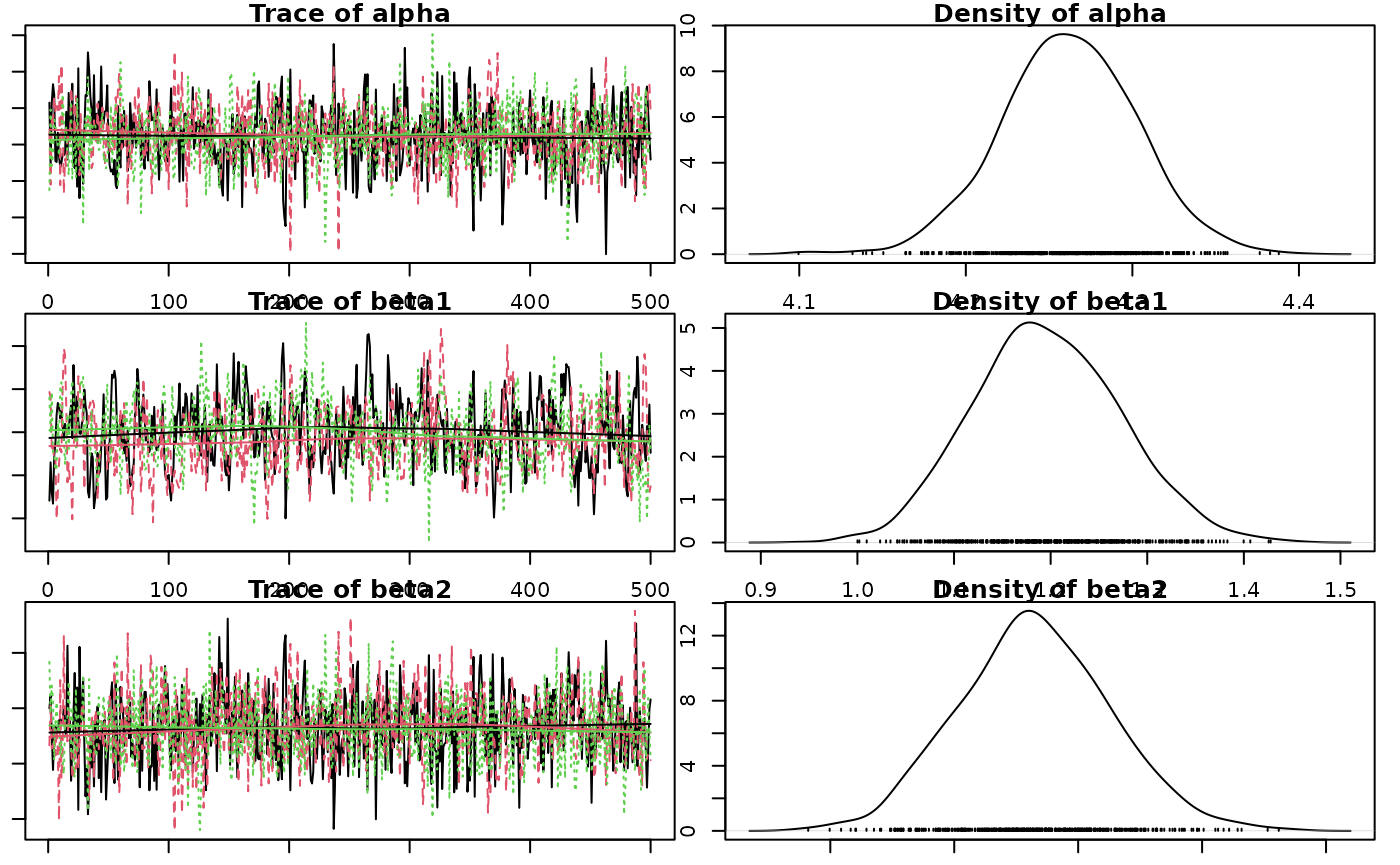
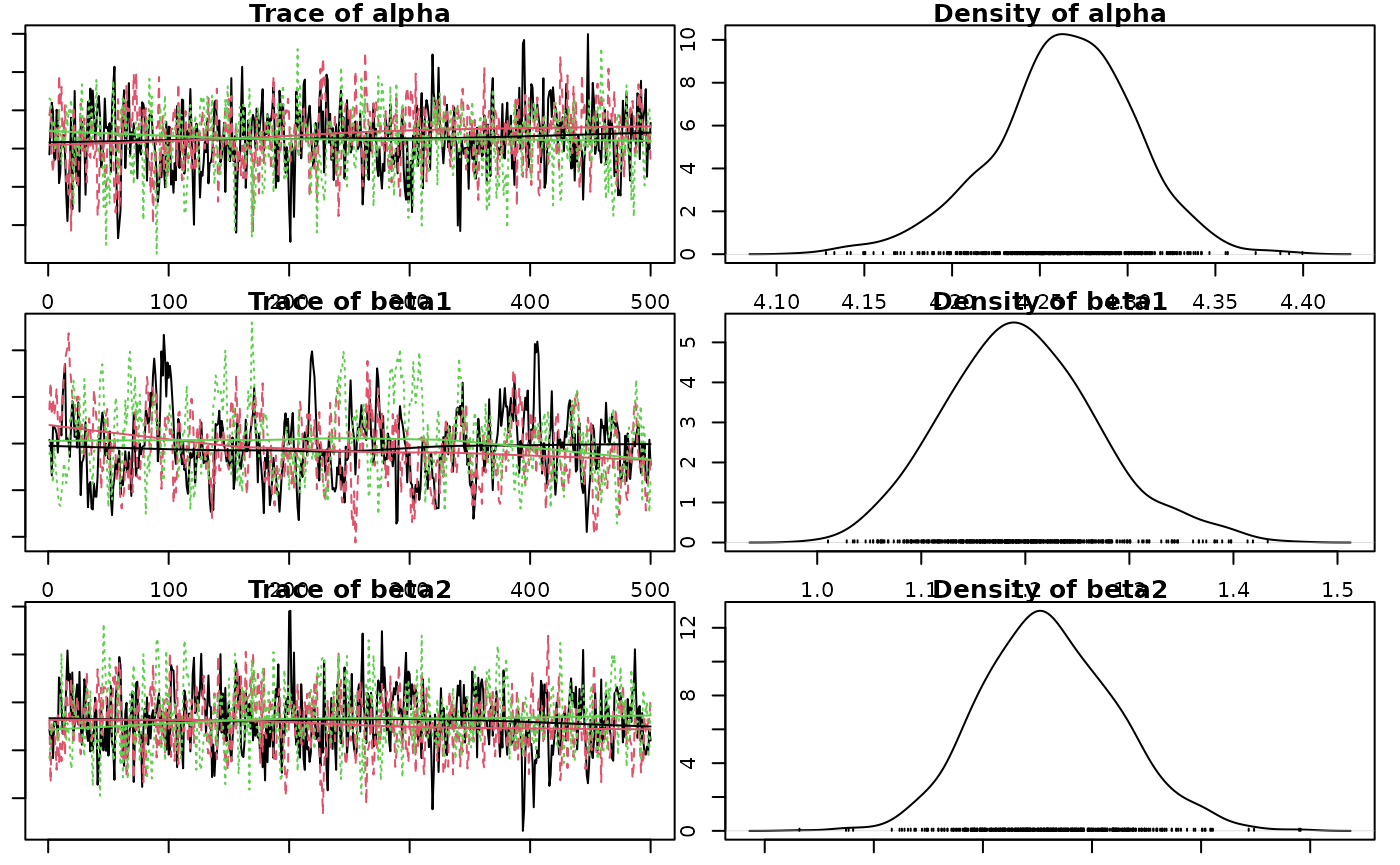
Deploying to gh-pages from @ poissonconsulting/jmbr@5c5ba8e0ce94d65971599e97e713981347515057 🚀

diff --git a/articles/jmbr.html b/articles/jmbr.html
@@ -24,7 +24,7 @@
 
     <a class="navbar-brand me-2" href="../index.html">jmbr</a>
 
-    <small class="nav-text text-muted me-auto" data-bs-toggle="tooltip" data-bs-placement="bottom" title="">0.0.0.9159</small>
+    <small class="nav-text text-muted me-auto" data-bs-toggle="tooltip" data-bs-placement="bottom" title="">0.0.0.9160</small>
 
 
     <button class="navbar-toggler" type="button" data-bs-toggle="collapse" data-bs-target="#navbar" aria-controls="navbar" aria-expanded="false" aria-label="Toggle navigation">
@@ -278,14 +278,14 @@ value and discarding all other values.</p>
 <span><span class="co">#&gt; <span style="color: #949494;"># A tibble: 1 × 8</span></span></span>
 <span><span class="co">#&gt;       n     K nchains niters nthin   ess  rhat converged</span></span>
 <span><span class="co">#&gt;   <span style="color: #949494; font-style: italic;">&lt;int&gt;</span> <span style="color: #949494; font-style: italic;">&lt;int&gt;</span>   <span style="color: #949494; font-style: italic;">&lt;int&gt;</span>  <span style="color: #949494; font-style: italic;">&lt;int&gt;</span> <span style="color: #949494; font-style: italic;">&lt;int&gt;</span> <span style="color: #949494; font-style: italic;">&lt;int&gt;</span> <span style="color: #949494; font-style: italic;">&lt;dbl&gt;</span> <span style="color: #949494; font-style: italic;">&lt;lgl&gt;</span>    </span></span>
-<span><span class="co">#&gt; <span style="color: #BCBCBC;">1</span>    40     6       3    500    10   165  1.38 FALSE</span></span>
+<span><span class="co">#&gt; <span style="color: #BCBCBC;">1</span>    40     6       3    500    10   226  1.01 TRUE</span></span>
 <span><span class="co">#&gt; Warning in value[[3L]](cond): beep() could not play the sound due to the following error:</span></span>
 <span><span class="co">#&gt; Error in play.default(x, rate, ...): no audio drivers are available</span></span>
 <span><span class="va">analysis</span> <span class="op">&lt;-</span> <span class="fu"><a href="https://rdrr.io/pkg/embr/man/reanalyse.html" class="external-link">reanalyse</a></span><span class="op">(</span><span class="va">analysis</span><span class="op">)</span></span>
 <span><span class="co">#&gt; <span style="color: #949494;"># A tibble: 1 × 8</span></span></span>
 <span><span class="co">#&gt;       n     K nchains niters nthin   ess  rhat converged</span></span>
 <span><span class="co">#&gt;   <span style="color: #949494; font-style: italic;">&lt;int&gt;</span> <span style="color: #949494; font-style: italic;">&lt;int&gt;</span>   <span style="color: #949494; font-style: italic;">&lt;int&gt;</span>  <span style="color: #949494; font-style: italic;">&lt;int&gt;</span> <span style="color: #949494; font-style: italic;">&lt;int&gt;</span> <span style="color: #949494; font-style: italic;">&lt;int&gt;</span> <span style="color: #949494; font-style: italic;">&lt;dbl&gt;</span> <span style="color: #949494; font-style: italic;">&lt;lgl&gt;</span>    </span></span>
-<span><span class="co">#&gt; <span style="color: #BCBCBC;">1</span>    40     6       3    500    20   459  1.02 TRUE</span></span>
+<span><span class="co">#&gt; <span style="color: #BCBCBC;">1</span>    40     6       3    500    10   226  1.01 TRUE</span></span>
 <span><span class="co">#&gt; Warning in value[[3L]](cond): beep() could not play the sound due to the following error:</span></span>
 <span><span class="co">#&gt; Error in play.default(x, rate, ...): no audio drivers are available</span></span></code></pre></div>
 <p><strong>Analysis Table:</strong></p>
@@ -329,12 +329,12 @@ between- and within-chain estimates for model parameters.
 <span><span class="co">#&gt; <span style="color: #949494;"># A tibble: 6 × 5</span></span></span>
 <span><span class="co">#&gt;   term        estimate   lower   upper svalue</span></span>
 <span><span class="co">#&gt;   <span style="color: #949494; font-style: italic;">&lt;term&gt;</span>         <span style="color: #949494; font-style: italic;">&lt;dbl&gt;</span>   <span style="color: #949494; font-style: italic;">&lt;dbl&gt;</span>   <span style="color: #949494; font-style: italic;">&lt;dbl&gt;</span>  <span style="color: #949494; font-style: italic;">&lt;dbl&gt;</span></span></span>
-<span><span class="co">#&gt; <span style="color: #BCBCBC;">1</span> alpha         4.26    4.18    4.34   10.6  </span></span>
-<span><span class="co">#&gt; <span style="color: #BCBCBC;">2</span> beta1         1.19    1.06    1.35   10.6  </span></span>
-<span><span class="co">#&gt; <span style="color: #BCBCBC;">3</span> beta2        -<span style="color: #BB0000;">0.018</span><span style="color: #BB0000; text-decoration: underline;">2</span> -<span style="color: #BB0000;">0.074</span><span style="color: #BB0000; text-decoration: underline;">1</span>  0.042<span style="text-decoration: underline;">5</span>  0.868</span></span>
-<span><span class="co">#&gt; <span style="color: #BCBCBC;">4</span> beta3        -<span style="color: #BB0000;">0.272</span>  -<span style="color: #BB0000;">0.350</span>  -<span style="color: #BB0000;">0.203</span>  10.6  </span></span>
-<span><span class="co">#&gt; <span style="color: #BCBCBC;">5</span> log_sAnnual  -<span style="color: #BB0000;">2.24</span>   -<span style="color: #BB0000;">2.90</span>   -<span style="color: #BB0000;">1.76</span>   10.6  </span></span>
-<span><span class="co">#&gt; <span style="color: #BCBCBC;">6</span> sAnnual       0.107   0.055<span style="text-decoration: underline;">2</span>  0.173  10.6</span></span></code></pre></div>
+<span><span class="co">#&gt; <span style="color: #BCBCBC;">1</span> alpha         4.27    4.17    4.34   10.6  </span></span>
+<span><span class="co">#&gt; <span style="color: #BCBCBC;">2</span> beta1         1.19    1.06    1.36   10.6  </span></span>
+<span><span class="co">#&gt; <span style="color: #BCBCBC;">3</span> beta2        -<span style="color: #BB0000;">0.021</span><span style="color: #BB0000; text-decoration: underline;">0</span> -<span style="color: #BB0000;">0.077</span><span style="color: #BB0000; text-decoration: underline;">8</span>  0.047<span style="text-decoration: underline;">2</span>  0.947</span></span>
+<span><span class="co">#&gt; <span style="color: #BCBCBC;">4</span> beta3        -<span style="color: #BB0000;">0.272</span>  -<span style="color: #BB0000;">0.357</span>  -<span style="color: #BB0000;">0.204</span>  10.6  </span></span>
+<span><span class="co">#&gt; <span style="color: #BCBCBC;">5</span> log_sAnnual  -<span style="color: #BB0000;">2.20</span>   -<span style="color: #BB0000;">3.02</span>   -<span style="color: #BB0000;">1.72</span>   10.6  </span></span>
+<span><span class="co">#&gt; <span style="color: #BCBCBC;">6</span> sAnnual       0.111   0.048<span style="text-decoration: underline;">9</span>  0.179  10.6</span></span></code></pre></div>
 <p>The estimate is the <strong>median</strong> by default.</p>
 <p>The s-value is the <strong>suprisal</strong> value, which is a
 measure of directionality with respect to zero.</p>

diff --git a/news/index.html b/news/index.html
@@ -7,7 +7,7 @@
 
     <a class="navbar-brand me-2" href="../index.html">jmbr</a>
 
-    <small class="nav-text text-muted me-auto" data-bs-toggle="tooltip" data-bs-placement="bottom" title="">0.0.0.9159</small>
+    <small class="nav-text text-muted me-auto" data-bs-toggle="tooltip" data-bs-placement="bottom" title="">0.0.0.9160</small>
 
 
     <button class="navbar-toggler" type="button" data-bs-toggle="collapse" data-bs-target="#navbar" aria-controls="navbar" aria-expanded="false" aria-label="Toggle navigation">
@@ -33,6 +33,10 @@
       <small>Source: <a href="https://github.com/poissonconsulting/jmbr/blob/main/NEWS.md" class="external-link"><code>NEWS.md</code></a></small>
     </div>
 
+    <div class="section level2">
+<h2 class="pkg-version" data-toc-text="0.0.0.9160" id="jmbr-0009160-2026-10-08">jmbr 0.0.0.9160 (2026-10-08)<a class="anchor" aria-label="anchor" href="#jmbr-0009160-2026-10-08"></a></h2>
+<ul><li>Same as previous version.</li>
+</ul></div>
     <div class="section level2">
 <h2 class="pkg-version" data-toc-text="0.0.0.9159" id="jmbr-0009159-2026-09-01">jmbr 0.0.0.9159 (2026-09-01)<a class="anchor" aria-label="anchor" href="#jmbr-0009159-2026-09-01"></a></h2>
 <ul><li>Same as previous version.</li>

diff --git a/404.html b/404.html
@@ -24,7 +24,7 @@
 
     <a class="navbar-brand me-2" href="https://poissonconsulting.github.io/jmbr/index.html">jmbr</a>
 
-    <small class="nav-text text-muted me-auto" data-bs-toggle="tooltip" data-bs-placement="bottom" title="">0.0.0.9159</small>
+    <small class="nav-text text-muted me-auto" data-bs-toggle="tooltip" data-bs-placement="bottom" title="">0.0.0.9160</small>
 
 
     <button class="navbar-toggler" type="button" data-bs-toggle="collapse" data-bs-target="#navbar" aria-controls="navbar" aria-expanded="false" aria-label="Toggle navigation">

diff --git a/articles/index.html b/articles/index.html
@@ -7,7 +7,7 @@
 
     <a class="navbar-brand me-2" href="../index.html">jmbr</a>
 
-    <small class="nav-text text-muted me-auto" data-bs-toggle="tooltip" data-bs-placement="bottom" title="">0.0.0.9159</small>
+    <small class="nav-text text-muted me-auto" data-bs-toggle="tooltip" data-bs-placement="bottom" title="">0.0.0.9160</small>
 
 
     <button class="navbar-toggler" type="button" data-bs-toggle="collapse" data-bs-target="#navbar" aria-controls="navbar" aria-expanded="false" aria-label="Toggle navigation">

diff --git a/reference/index.html b/reference/index.html
@@ -7,7 +7,7 @@
 
     <a class="navbar-brand me-2" href="../index.html">jmbr</a>
 
-    <small class="nav-text text-muted me-auto" data-bs-toggle="tooltip" data-bs-placement="bottom" title="">0.0.0.9159</small>
+    <small class="nav-text text-muted me-auto" data-bs-toggle="tooltip" data-bs-placement="bottom" title="">0.0.0.9160</small>
 
 
     <button class="navbar-toggler" type="button" data-bs-toggle="collapse" data-bs-target="#navbar" aria-controls="navbar" aria-expanded="false" aria-label="Toggle navigation">

diff --git a/reference/is.jmb_analysis.html b/reference/is.jmb_analysis.html
@@ -7,7 +7,7 @@
 
     <a class="navbar-brand me-2" href="../index.html">jmbr</a>
 
-    <small class="nav-text text-muted me-auto" data-bs-toggle="tooltip" data-bs-placement="bottom" title="">0.0.0.9159</small>
+    <small class="nav-text text-muted me-auto" data-bs-toggle="tooltip" data-bs-placement="bottom" title="">0.0.0.9160</small>
 
 
     <button class="navbar-toggler" type="button" data-bs-toggle="collapse" data-bs-target="#navbar" aria-controls="navbar" aria-expanded="false" aria-label="Toggle navigation">

diff --git a/reference/is.jmb_code.html b/reference/is.jmb_code.html
@@ -7,7 +7,7 @@
 
     <a class="navbar-brand me-2" href="../index.html">jmbr</a>
 
-    <small class="nav-text text-muted me-auto" data-bs-toggle="tooltip" data-bs-placement="bottom" title="">0.0.0.9159</small>
+    <small class="nav-text text-muted me-auto" data-bs-toggle="tooltip" data-bs-placement="bottom" title="">0.0.0.9160</small>
 
 
     <button class="navbar-toggler" type="button" data-bs-toggle="collapse" data-bs-target="#navbar" aria-controls="navbar" aria-expanded="false" aria-label="Toggle navigation">

diff --git a/reference/is.jmb_model.html b/reference/is.jmb_model.html
@@ -7,7 +7,7 @@
 
     <a class="navbar-brand me-2" href="../index.html">jmbr</a>
 
-    <small class="nav-text text-muted me-auto" data-bs-toggle="tooltip" data-bs-placement="bottom" title="">0.0.0.9159</small>
+    <small class="nav-text text-muted me-auto" data-bs-toggle="tooltip" data-bs-placement="bottom" title="">0.0.0.9160</small>
 
 
     <button class="navbar-toggler" type="button" data-bs-toggle="collapse" data-bs-target="#navbar" aria-controls="navbar" aria-expanded="false" aria-label="Toggle navigation">

diff --git a/reference/jmbr-package.html b/reference/jmbr-package.html
@@ -7,7 +7,7 @@
 
     <a class="navbar-brand me-2" href="../index.html">jmbr</a>
 
-    <small class="nav-text text-muted me-auto" data-bs-toggle="tooltip" data-bs-placement="bottom" title="">0.0.0.9159</small>
+    <small class="nav-text text-muted me-auto" data-bs-toggle="tooltip" data-bs-placement="bottom" title="">0.0.0.9160</small>
 
 
     <button class="navbar-toggler" type="button" data-bs-toggle="collapse" data-bs-target="#navbar" aria-controls="navbar" aria-expanded="false" aria-label="Toggle navigation">

diff --git a/index.html b/index.html
@@ -26,7 +26,7 @@
 
     <a class="navbar-brand me-2" href="index.html">jmbr</a>
 
-    <small class="nav-text text-muted me-auto" data-bs-toggle="tooltip" data-bs-placement="bottom" title="">0.0.0.9159</small>
+    <small class="nav-text text-muted me-auto" data-bs-toggle="tooltip" data-bs-placement="bottom" title="">0.0.0.9160</small>
 
 
     <button class="navbar-toggler" type="button" data-bs-toggle="collapse" data-bs-target="#navbar" aria-controls="navbar" aria-expanded="false" aria-label="Toggle navigation">

diff --git a/CODE_OF_CONDUCT.html b/CODE_OF_CONDUCT.html
@@ -7,7 +7,7 @@
 
     <a class="navbar-brand me-2" href="index.html">jmbr</a>
 
-    <small class="nav-text text-muted me-auto" data-bs-toggle="tooltip" data-bs-placement="bottom" title="">0.0.0.9159</small>
+    <small class="nav-text text-muted me-auto" data-bs-toggle="tooltip" data-bs-placement="bottom" title="">0.0.0.9160</small>
 
 
     <button class="navbar-toggler" type="button" data-bs-toggle="collapse" data-bs-target="#navbar" aria-controls="navbar" aria-expanded="false" aria-label="Toggle navigation">

diff --git a/CONTRIBUTING.html b/CONTRIBUTING.html
@@ -7,7 +7,7 @@
 
     <a class="navbar-brand me-2" href="index.html">jmbr</a>
 
-    <small class="nav-text text-muted me-auto" data-bs-toggle="tooltip" data-bs-placement="bottom" title="">0.0.0.9159</small>
+    <small class="nav-text text-muted me-auto" data-bs-toggle="tooltip" data-bs-placement="bottom" title="">0.0.0.9160</small>
 
 
     <button class="navbar-toggler" type="button" data-bs-toggle="collapse" data-bs-target="#navbar" aria-controls="navbar" aria-expanded="false" aria-label="Toggle navigation">
